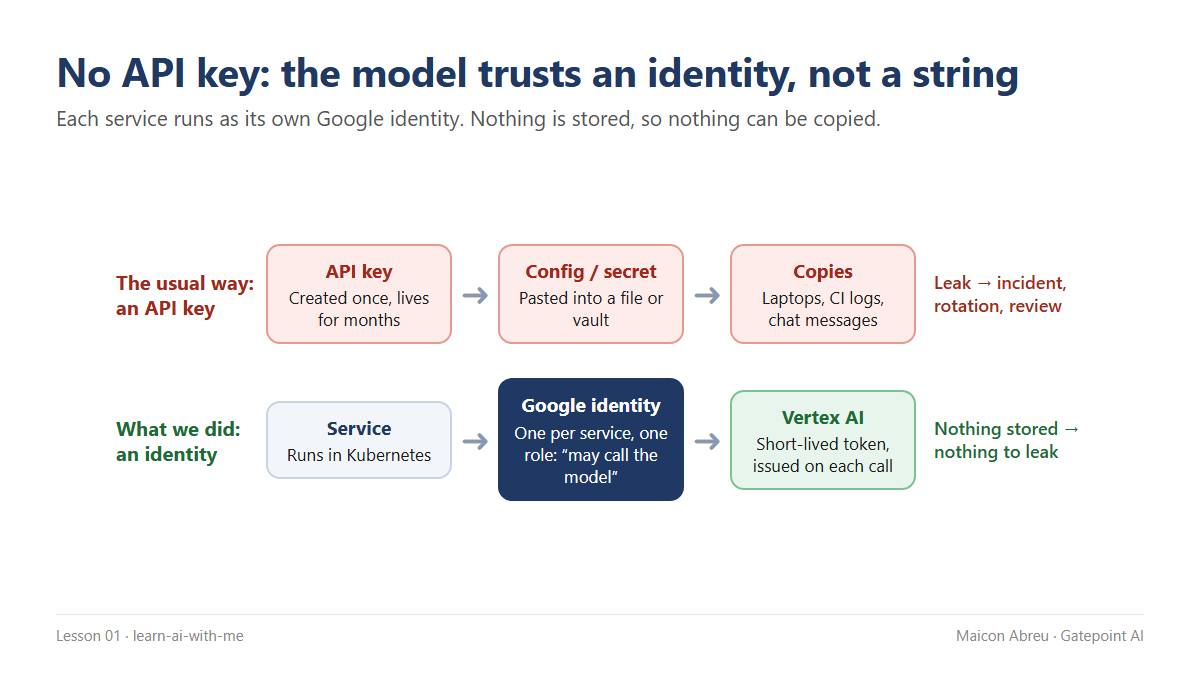
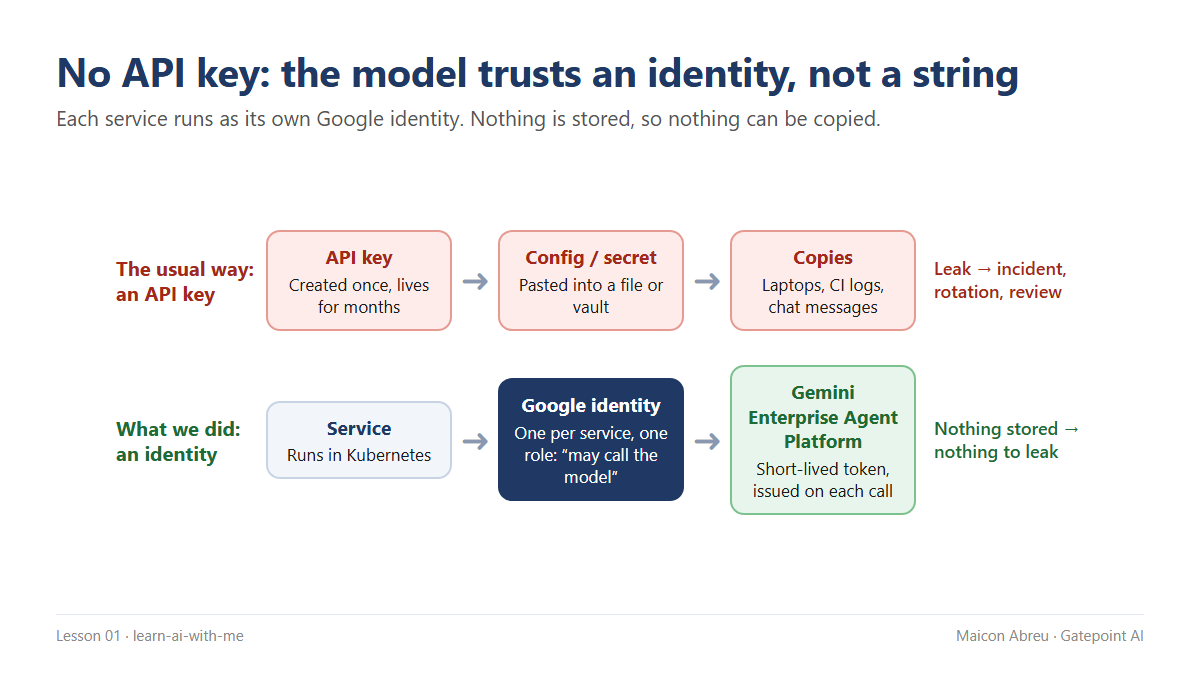
Lesson 01: use the new name, Gemini Enterprise Agent Platform (formerly Vertex AI)

diff --git a/01-no-api-keys/README.md b/01-no-api-keys/README.md
@@ -12,7 +12,7 @@ A key is a password that never expires on its own. It gets copied — into a sec
 
 ## The decision
 
-On the last AI platform I worked on — Google Cloud, with Kubernetes for the services and Vertex AI for the models — **there was no API key**:
+On the last AI platform I worked on — Google Cloud, with Kubernetes for the services and Gemini Enterprise Agent Platform (formerly Vertex AI) for the models — **there was no API key**:
 
 1. **Every service runs as its own Google identity** (on Kubernetes this is *Workload Identity Federation for GKE*).
 2. **That identity is granted one role:** permission to call the model. Not the database, not the storage, not the other services.
@@ -20,8 +20,6 @@ On the last AI platform I worked on — Google Cloud, with Kubernetes for the se
 4. **Access is a line in the architecture document**, reviewable by security and auditable after the fact.
 
 It wasn't free. When we started loading documents into the knowledge base, a default setting we had never touched still expected a key — and every upload failed. The fix was small. Finding it took longer, because the error message pointed at a key nobody should have had. The lesson: **an identity-only platform also needs a check that no component quietly expects a key.** That's what the example below does.
-
-*Naming note: Google now presents Vertex AI as part of Gemini Enterprise Agent Platform; the identity model is the same.*
 
 ## The trade-off
 
